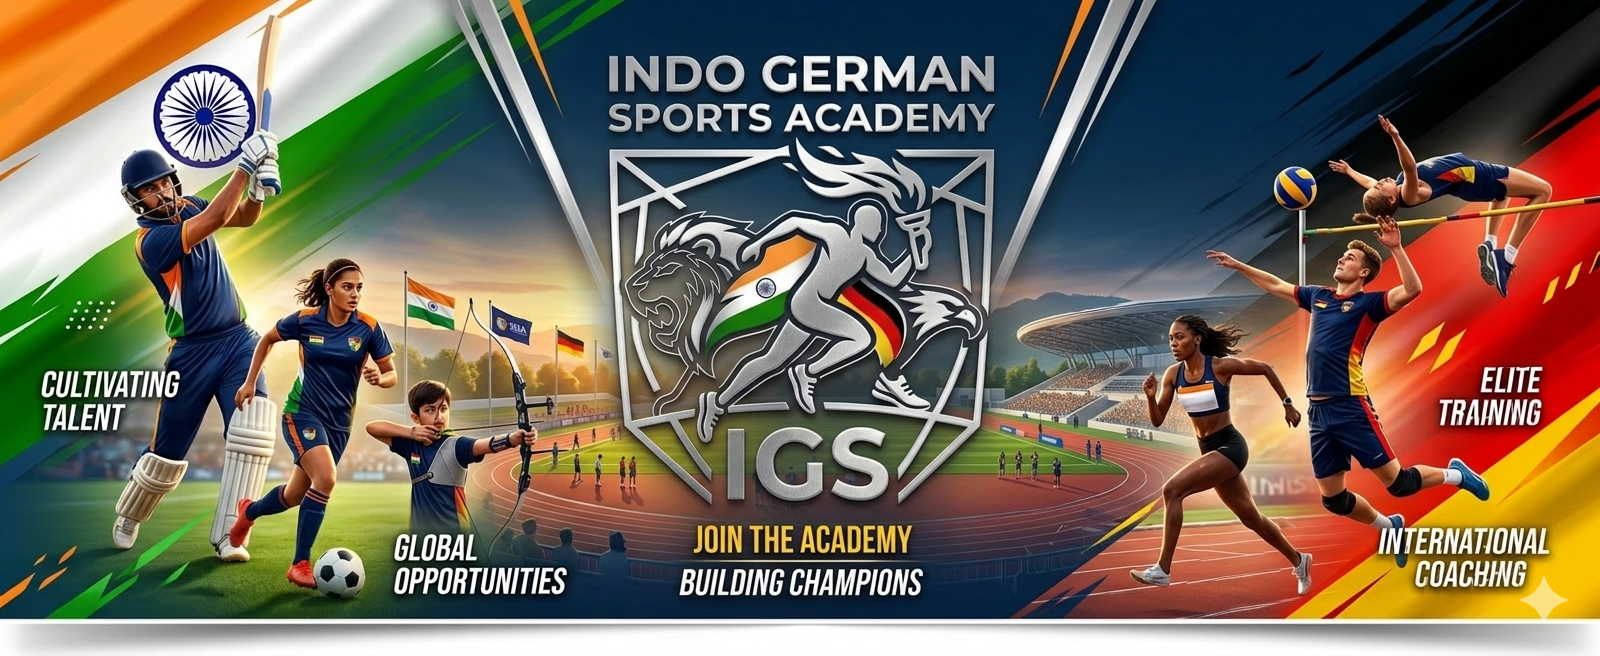
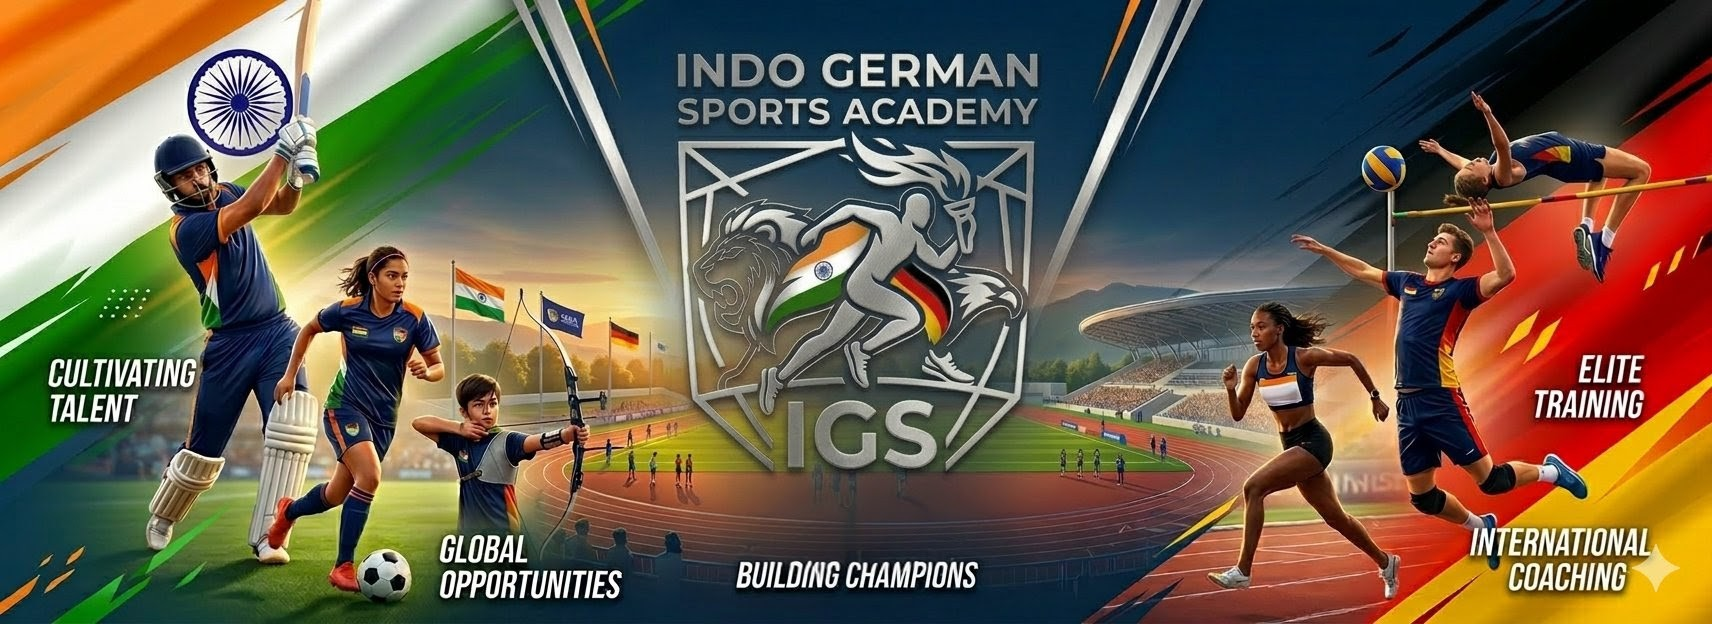
Add files via upload

diff --git a/index.html b/index.html
@@ -9,12 +9,110 @@ header{display:flex;align-items:center;justify-content:space-between;padding:5px
 header img{height:55px}
 nav a{margin:0 12px;color:#fff;text-decoration:none;font-weight:bold}
 nav a:hover{color:#140f00}
-.hero{display:flex;flex-direction:column;align-items:center;height:300px;justify-content:center;text-align:center;padding:140px 8px;background:linear-gradient(rgba(0,0,0,.6),rgba(0,0,0,.6)),url('banner.png');background-size:cover;background-position:center top;background-repeat:no-repeat}
-.hero h1{font-size:48px;margin:10px}
-.hero p{font-size:20px;max-width:600px}
-.btn{padding:5px 24px;margin:10px;background:#f5b400;color:#000;border:none;border-radius:5px;font-weight:bold;cursor:pointer}
+/* replace your existing .hero block with this */
+.hero{
+display:flex;
+flex-direction:column;
+align-items:center;
+justify-content:center;
+text-align:center;
+
+height:500px;
+
+padding:40px 20px;
+
+background:url('banner.png');
+
+background-size:contain;
+background-position:center;
+background-repeat:no-repeat;
+
+background-color:#081d33;
+}
+
+/* new CTA positioning */
+.hero .cta{
+  position:absolute;
+  bottom:60px;                       /* distance from bottom of hero - change to taste */
+  left:50%;
+  transform:translateX(-50%);
+  display:flex;
+  flex-direction:column;
+  gap:14px;
+  align-items:center;
+  z-index:3;                          /* stay on top of overlay */
+}
+
+/* improve button visuals so they read on the image */
+.btn{
+  padding:12px 28px;
+  margin:0;
+  background:#f5b400;
+  color:#000;
+  border:none;
+  border-radius:6px;
+  font-weight:bold;
+  cursor:pointer;
+  box-shadow:0 6px 18px rgba(0,0,0,0.35);
+}
+
+
 section{padding:50px 40px}
+.menu-btn{
+font-size:28px;
+cursor:pointer;
+color:white;
+}
+
+#menu{
+display:none;
+position:absolute;
+top:60px;
+right:20px;
+background:#081d33;
+padding:15px;
+border-radius:8px;
+flex-direction:column;
+}
+
+#menu a{
+display:block;
+margin:10px 0;
+}
 h2{color:#0e0a01}
+.join-btn{
+background:#f5b400;
+color:#000;
+padding:8px 18px;
+border-radius:6px;
+font-weight:bold;
+text-decoration:none;
+
+margin:0 auto;
+}
+
+.join-btn:hover{
+background:#ffd34d;
+}
+.submenu{
+position:relative;
+}
+
+.submenu-content{
+display:none;
+flex-direction:column;
+background:#0f2c4a;
+margin-left:10px;
+}
+
+.submenu-content a{
+padding:8px;
+font-size:14px;
+}
+
+.submenu:hover .submenu-content{
+display:flex;
+}
 .grid{display:grid;grid-template-columns:repeat(auto-fit,minmax(250px,1fr));gap:20px}
 .card{background:#112f4f;padding:20px;border-radius:10px}
 footer{background:#081d33;text-align:center;padding:30px}
@@ -22,11 +120,30 @@ form input,form textarea{width:100%;padding:10px;margin:8px 0;border-radius:5px;
 .gallery img{width:100%;border-radius:10px}
 @media(max-width:768px){.hero h1{font-size:32px}}
 </style>
-</head><body><header>
+</head><body>
+    <header>
+
 <img src="logo.jpeg" alt="IGSA Logo">
-<nav>
+
+<a href="#admissions" class="join-btn">Join Us</a>
+
+<div class="menu-btn" onclick="toggleMenu()">☰</div>
+<nav id="menu">
+
 <a href="#home">Home</a>
-<a href="#about">About</a>
+
+<div class="submenu">
+<a href="#about">About ▼</a>
+
+<div class="submenu-content">
+<a href="#vision">Vision</a>
+<a href="#mission">Mission</a>
+<a href="#leadership">Leadership</a>
+<a href="#indo-german">Indo German Collaboration</a>
+</div>
+
+</div>
+
 <a href="#programs">Programs</a>
 <a href="#facilities">Facilities</a>
 <a href="#international">International</a>
@@ -36,22 +153,36 @@ form input,form textarea{width:100%;padding:10px;margin:8px 0;border-radius:5px;
 <a href="#media">Media</a>
 <a href="#admissions">Admissions</a>
 <a href="#contact">Contact</a>
+
 </nav>
-</header><section class="hero" id="home">
-<h1></h1>
-<p></p>
-<button class="btn">Join the Academy</button>
-<button class="btn">Partner With Us</button>
-</section><section id="about">
+
+</header>
+<section class="hero" id="home">
+  <h1></h1>
+  <p></p>
+
+  <!-- buttons placed in absolute positioned CTA so they sit lower on the poster -->
+  <div class="cta">
+    
+    
+  </div>
+</section>
+<section id="about">
 <h2>About Us</h2>
 <p>Indo German Sports Academy is an international sports development initiative dedicated to identifying and nurturing young athletes across India. The academy integrates German sports science, international coaching standards and modern training infrastructure.</p>
 <div class="grid">
 <div class="card"><h3>Vision</h3><p>To become a global center of sports excellence that transforms young athletes into international champions.</p></div>
 <div class="card"><h3>Mission</h3><p>Identify talent, provide international training, and promote Indo‑German sports collaboration.</p></div>
-<div class="card"><h3>Leadership</h3><p>Experienced sports professionals, international coaches and advisors guide our programs.</p></div>
+<div class="card"><h3>Leadership</h4><p>
+</p></div>
 <div class="card"><h3>Indo‑German Collaboration</h3><p>Combining Indian talent with German precision, discipline and sports science.</p></div>
 </div>
-</section><section id="programs">
+</section>
+
+
+
+<section id="programs">
+
 <h2>Sports Programs</h2>
 <div class="grid">
 <div class="card"><h3>Football Academy</h3><p>Professional football development programs for youth athletes.</p></div>
@@ -96,9 +227,8 @@ form input,form textarea{width:100%;padding:10px;margin:8px 0;border-radius:5px;
 </section><section id="media">
 <h2>Media & Gallery</h2>
 <div class="grid gallery">
-<img src="https://images.unsplash.com/photo-1508609349937-5ec4ae374ebf">
-<img src="https://images.unsplash.com/photo-1517649763962-0c623066013b">
-<img src="https://images.unsplash.com/photo-1505842465776-3d90f6163101">
+<img src="peoples.png">
+<img src="peoples1.png">
 </div>
 </section><section id="admissions">
 <h2>Admissions</h2>
@@ -115,5 +245,16 @@ form input,form textarea{width:100%;padding:10px;margin:8px 0;border-radius:5px;
 </section><footer>
 <p>Indo German Sports Academy | www.igsports.in</p>
 <p>Where Indian Talent Meets German Excellence</p>
-</footer></body>
+</footer>
+<script>
+function toggleMenu(){
+var menu=document.getElementById("menu");
+if(menu.style.display==="block"){
+menu.style.display="none";
+}else{
+menu.style.display="block";
+}
+}
+</script>
+</body>
 </html>
